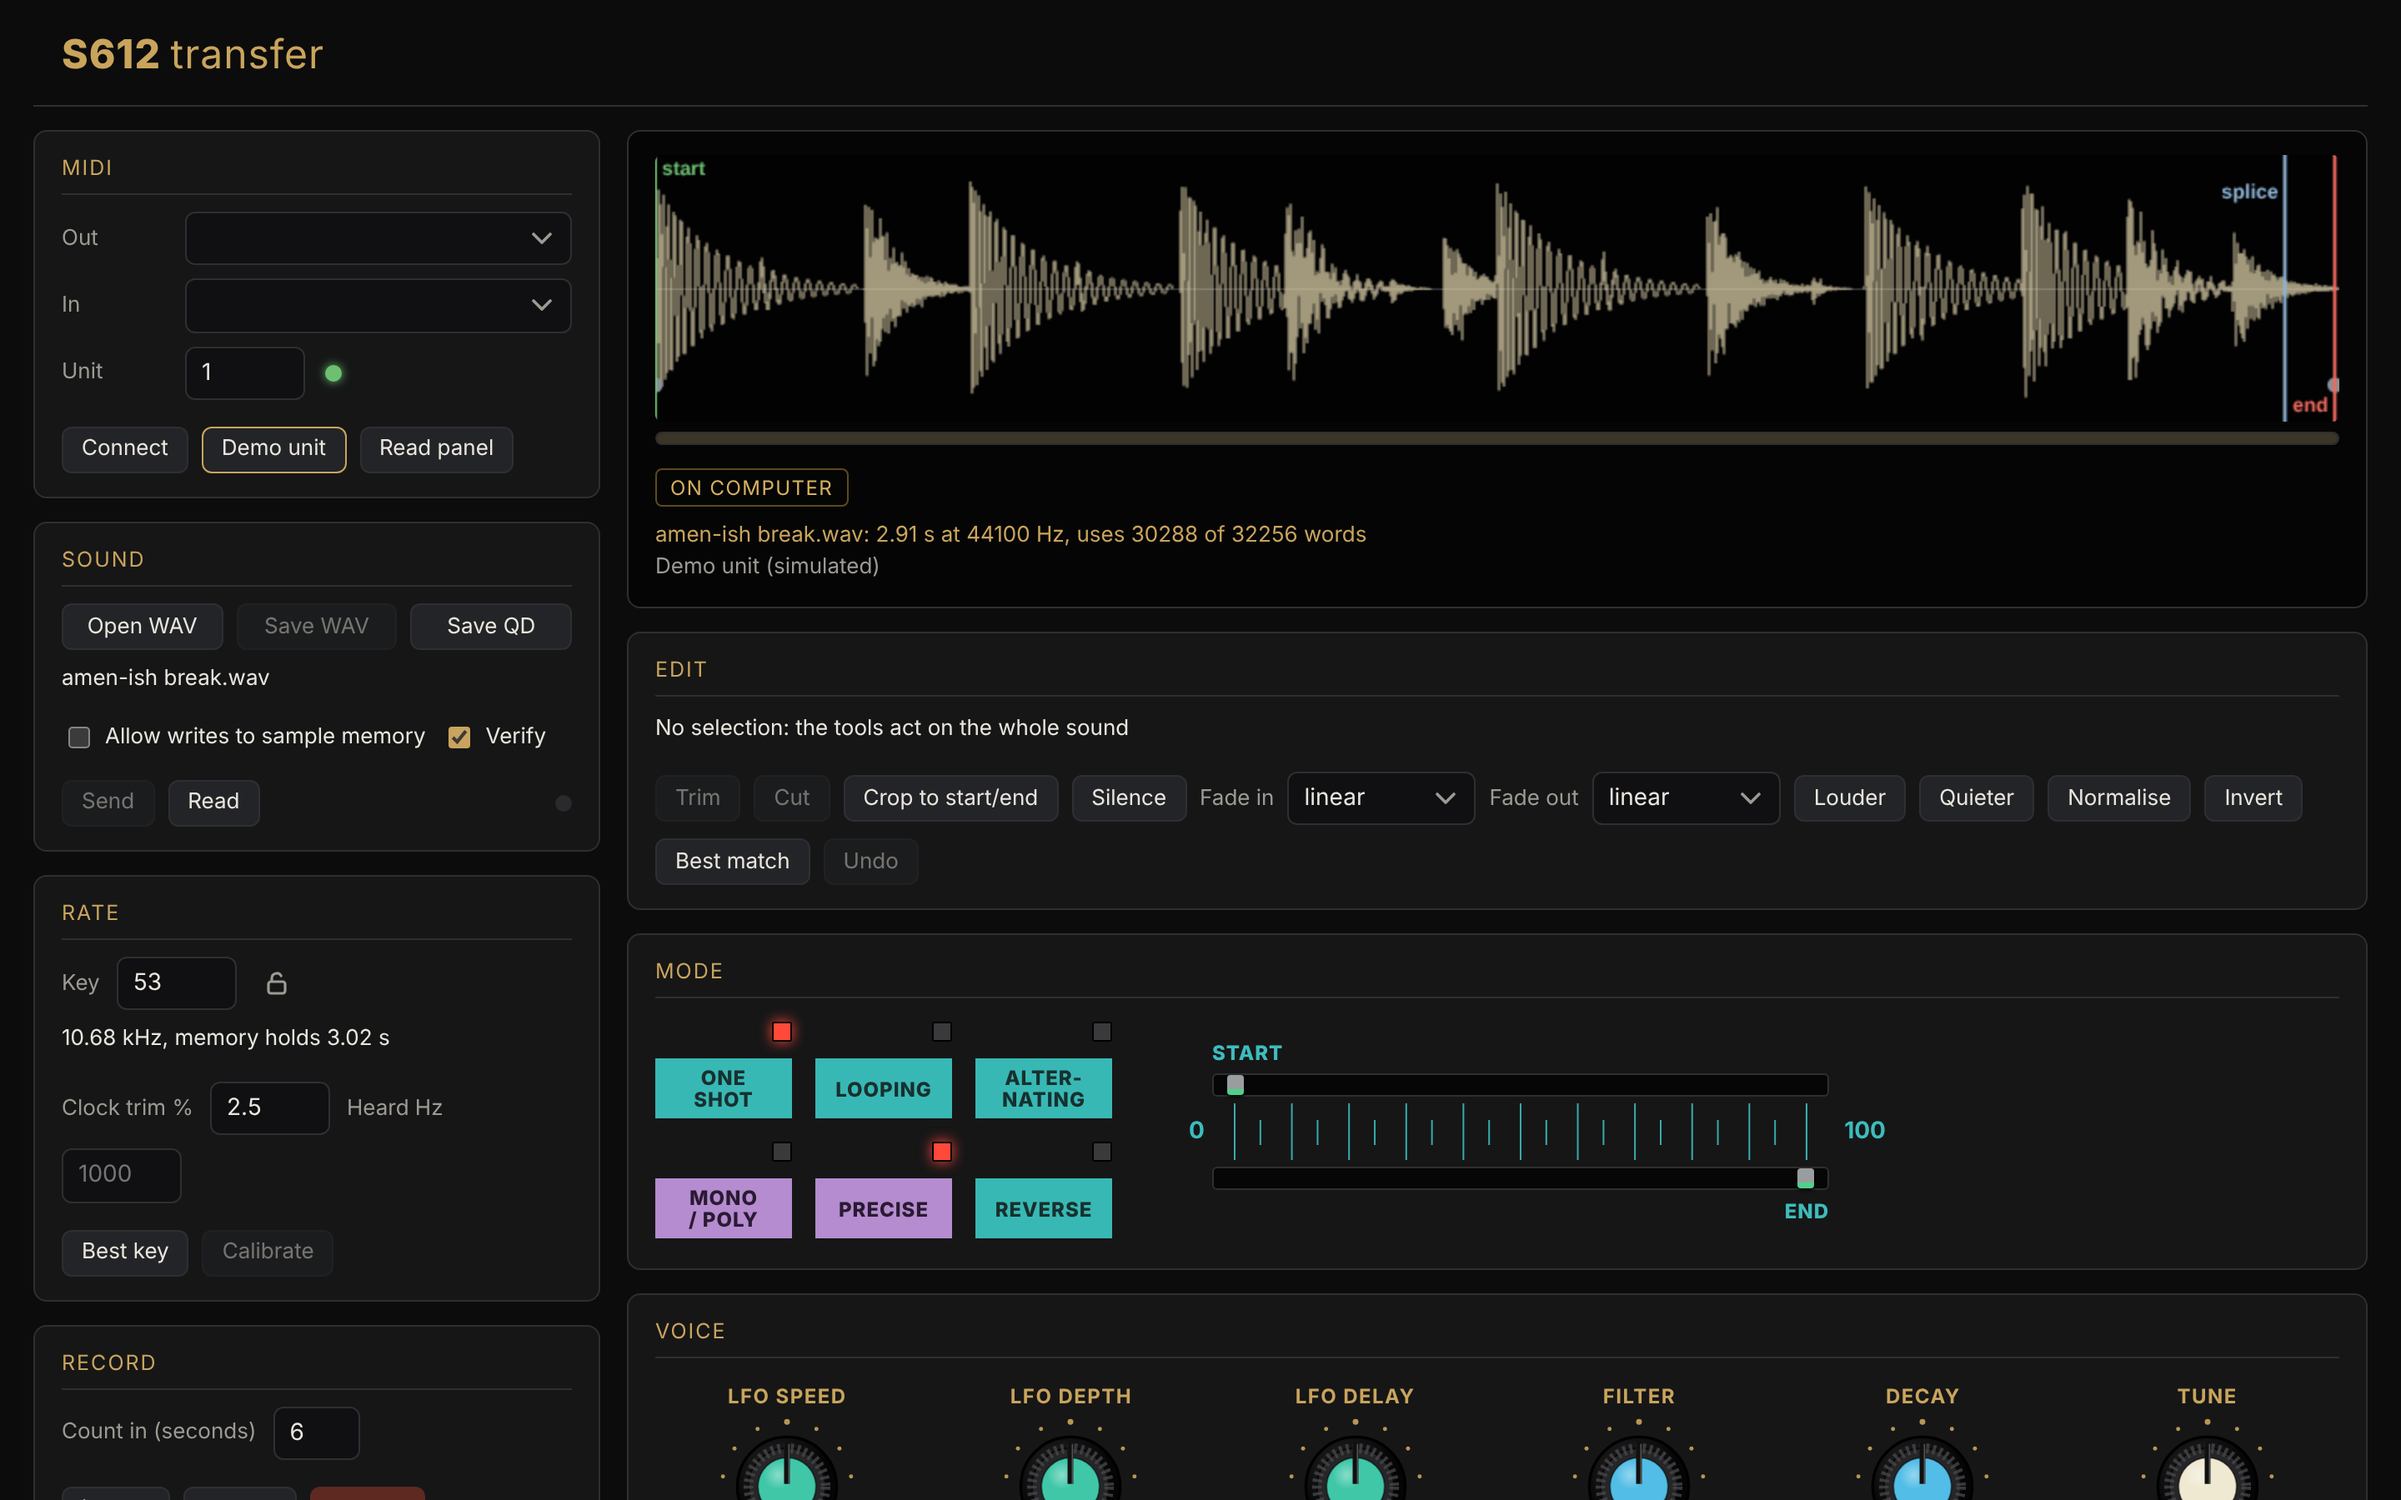
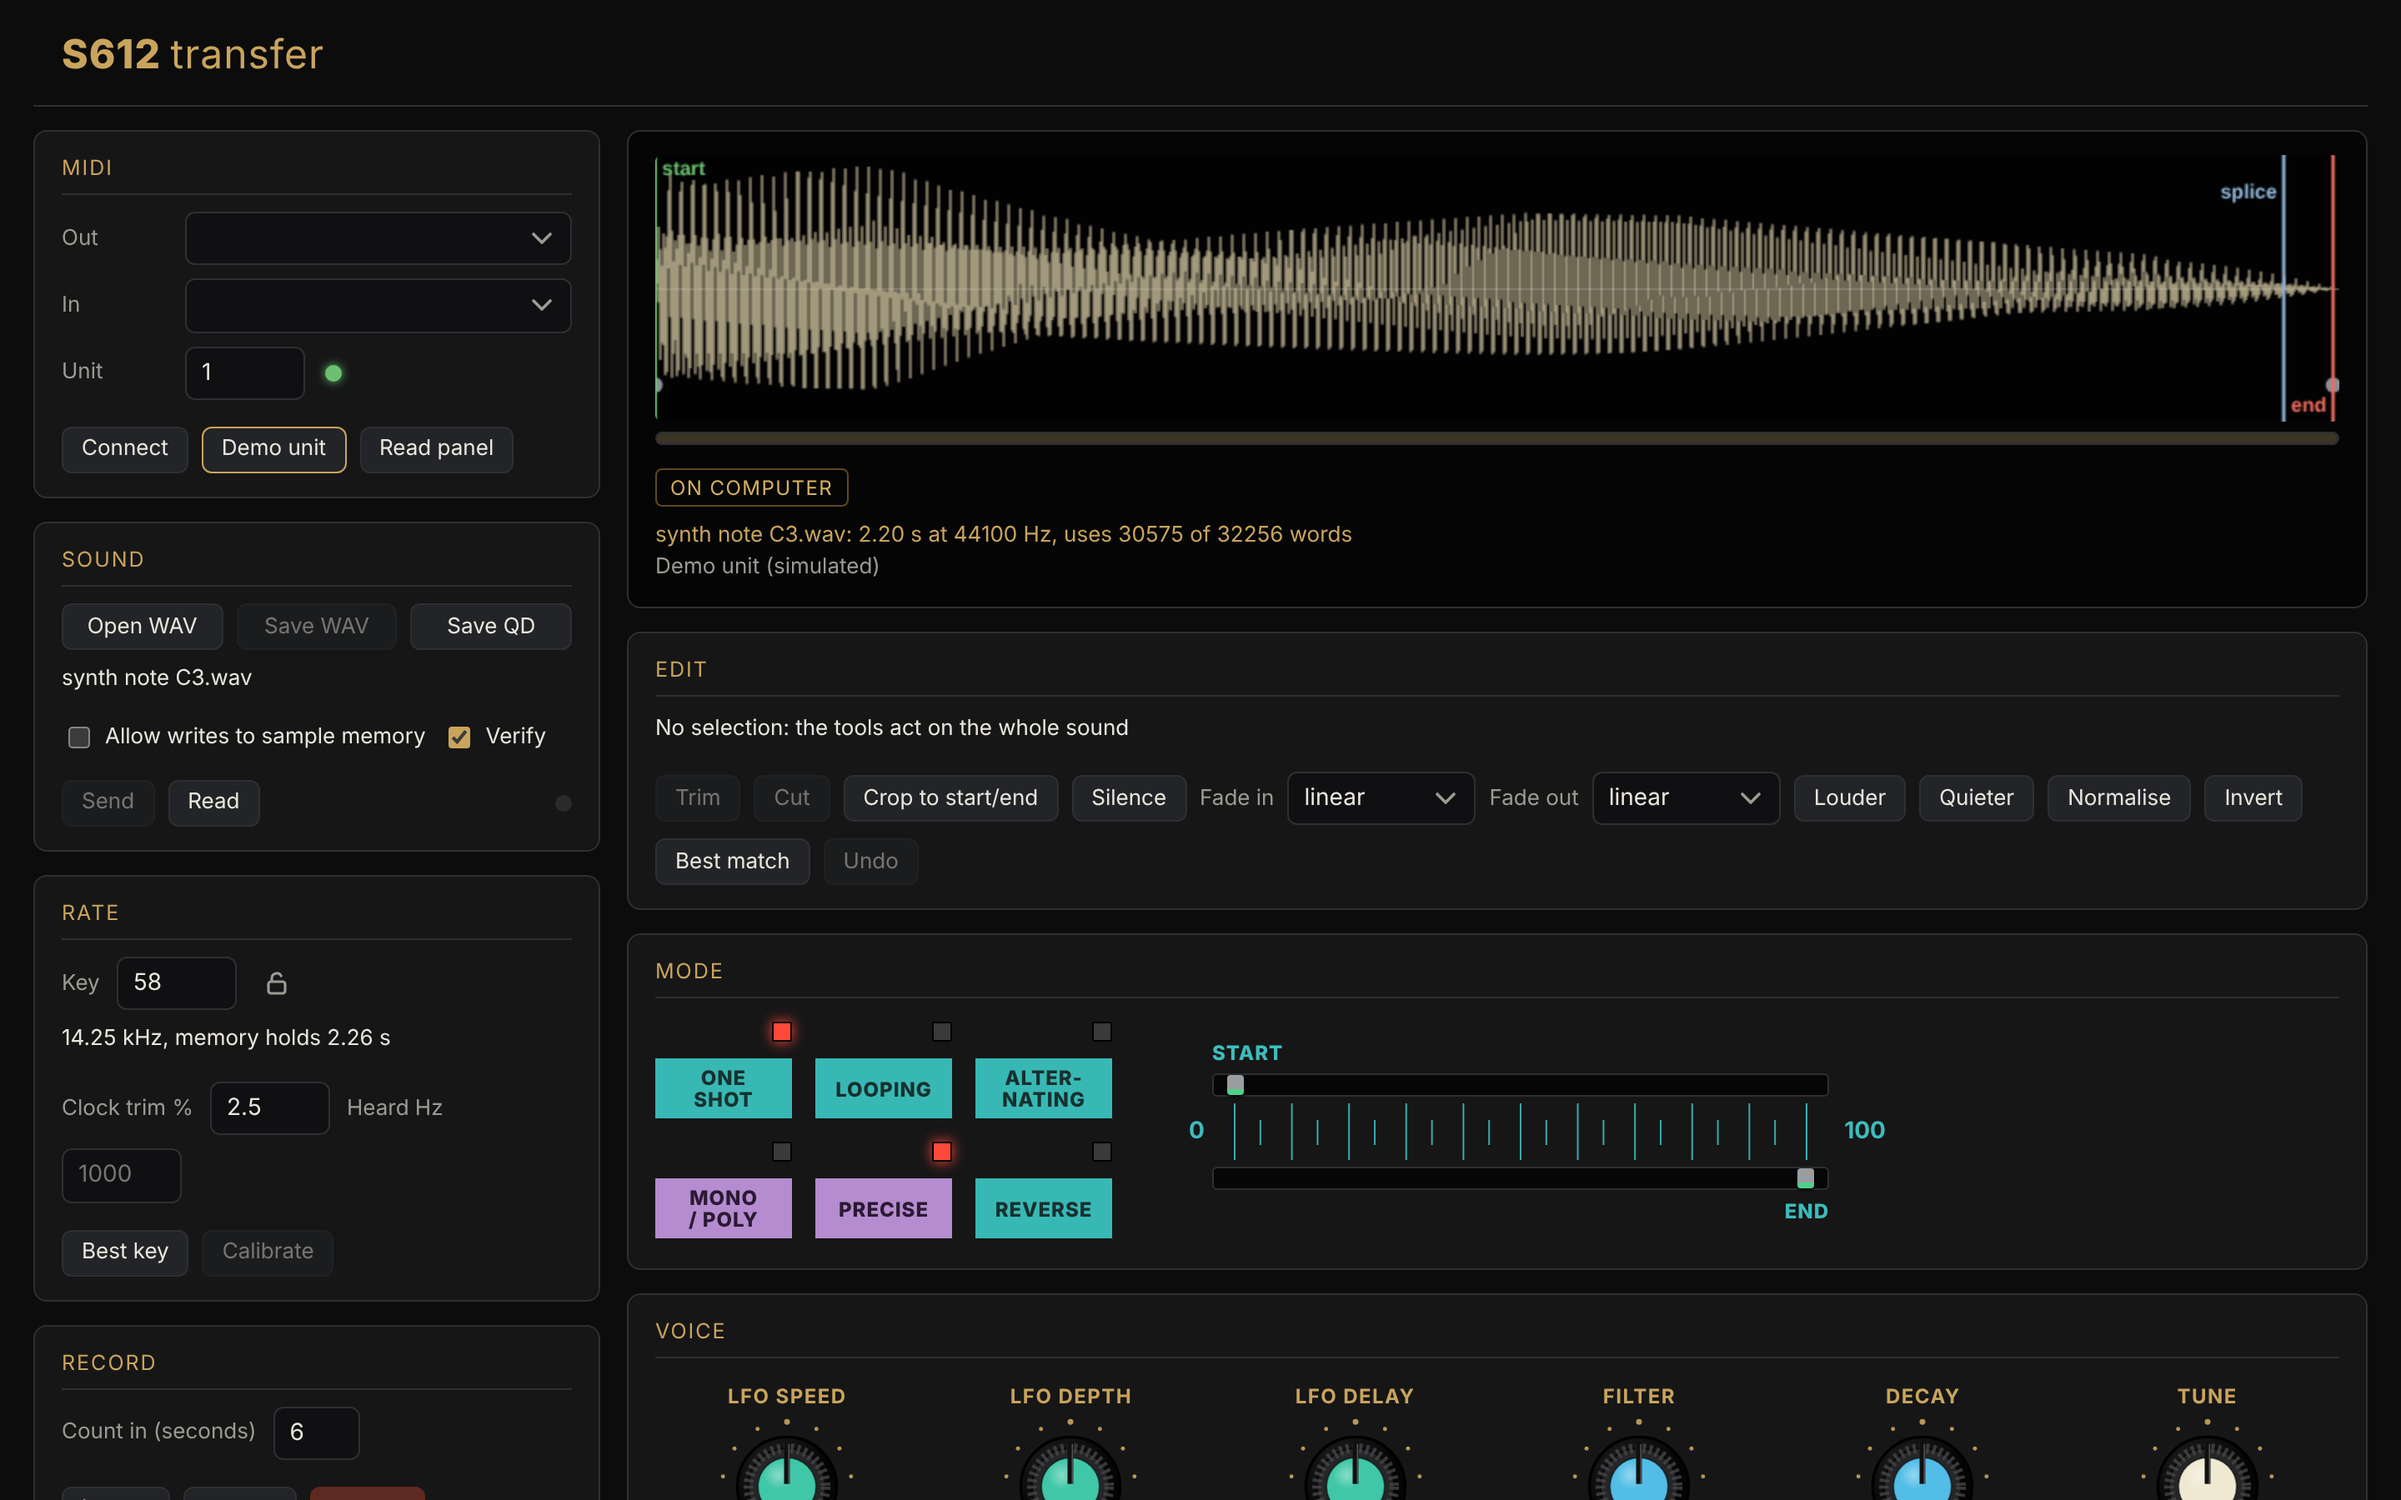
S612 transfer screenshots show a synth note
Claude-Session: https://claude.ai/code/session_01EcJiKn2T1cFUAL4EKxtCKe

diff --git a/index.html b/index.html
@@ -159,7 +159,7 @@ const APPS = [
   { id:'s950rx', shots:[['Sending samples in Demo mode, with the sampler’s display mirrored','shots/s950rx-1.png'], ['Edit break: hits found, ready to slice','shots/s950rx-2.png']], name:'S950rx', icon:'s950rx', gear:'Akai S950 and S900', installable:true,
     text:'Editor and sample transfer over RS232. Send and receive samples, edit every parameter, slice breaks, fit them to tempo and reproduce the sampler’s own Timestretch.',
     needs:'Chrome or Edge · USB–serial cable', credit:'A port of S950rs by Scott Swift (dxzl).' },
-  { id:'s612-transfer', shots:[['A break loaded and ready to send to the S612','shots/s612-transfer-1.png'], ['Edit, mode and voice controls','shots/s612-transfer-2.png']], name:'S612 transfer', icon:'s612-transfer', gear:'Akai S612', installable:true,
+  { id:'s612-transfer', shots:[['A synth note loaded and ready to send to the S612','shots/s612-transfer-1.png'], ['Shaping the synth note: edit, mode and voice controls','shots/s612-transfer-2.png']], name:'S612 transfer', icon:'s612-transfer', gear:'Akai S612', installable:true,
     text:'Sample transfer over MIDI, with simple waveform editing, loop setting and a library of Quick Disk images.',
     needs:'Chrome or Edge · MIDI interface' },
   { id:'seer', shots:[['The editor, with a generated patch','shots/seer-1.png'], ['The Library','shots/seer-2.png']], name:'Seer', icon:'seer', gear:'Sequential Prophet-5 and Prophet-10 Rev 4', installable:true,
